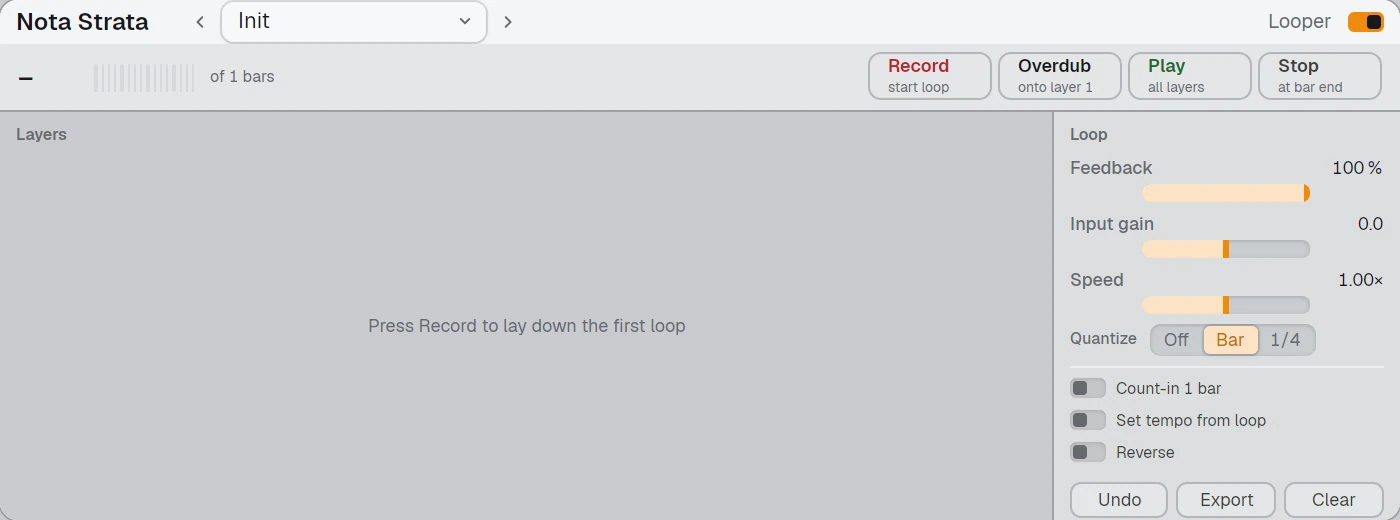
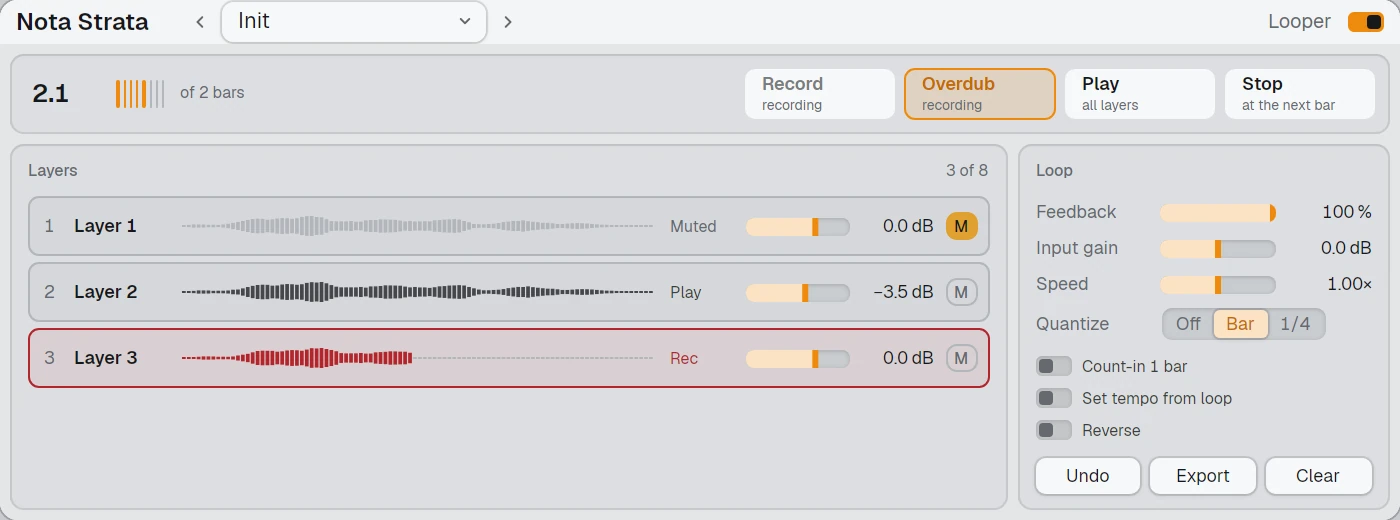
Strata: the page describes the fixed transport, count-in, set tempo, export and layer levels (EN + RU); card shot shows a take

diff --git a/shots/app/Scenes.cs b/shots/app/Scenes.cs
@@ -25,7 +25,8 @@ namespace NotaDocsShots;
 ///             clip (a demo sample on an effect's track), sidechain + sidechainName (a demo sample on
 ///             a second track routed as the effect's key),
 ///             chainInstrument (an Instrument Rack's chain 1 instrument), trackName, window (click this text — a
-///             chain's GUI — and shoot the device window it opens)
+///             chain's GUI — and shoot the device window it opens), strata (a scripted take on a Strata
+///             looper; strataMute mutes its layer 1)
 ///   main      view (arrangement | session | modular), select (track name), clip (track name,
 ///             + clipIndex, audio: true for an audio clip) to open in the clip editor, with ("Track:clipIndex,…" —
 ///             more MIDI clips selected with it, so they open together), automation, tab (browser tab index),
@@ -186,6 +187,23 @@ public sealed class Scenes
         var buf = new float[1024 * 2];
         for (int k = 0; k < 40; k++) _engine.RenderOffline(buf, 1024);
         _engine.StopTransport();
+        // `strata`: a take on a looper (Quantize Off while it records) — two bars on the first
+        // pass, a full overdub, then halfway through a third pass, so one layer is still recording.
+        // `strataMute` mutes layer 1; layer 2 sits at −3.5 dB.
+        if (shot.Str("strata") is not null)
+        {
+            void Blocks(int n) { for (int k = 0; k < n; k++) _engine.RenderOffline(buf, 1024); }
+            _engine.DeviceSetParam(track, deviceIndex, 3, 0f);
+            _engine.Seek(0); _engine.Play();
+            _engine.DeviceAction(track, deviceIndex, 0, 0, 0); Blocks(173);   // Record: the first pass
+            _engine.DeviceAction(track, deviceIndex, 2, 0, 0); Blocks(2);     // Play: close the loop
+            _engine.Seek(0); _engine.DeviceAction(track, deviceIndex, 1, 0, 0); Blocks(174);   // Overdub: layer 2
+            _engine.Seek(0); _engine.DeviceAction(track, deviceIndex, 1, 0, 0); Blocks(80);    // Overdub: layer 3, half way
+            if (shot.Str("strataMute") is not null) _engine.DeviceAction(track, deviceIndex, 6, 0, 1f);
+            _engine.DeviceAction(track, deviceIndex, 7, 1, -3.5f);
+            _engine.DeviceSetParam(track, deviceIndex, 3, 1f);
+            Blocks(4);
+        }
 
         var view = new DeviceChainView(_engine, _presets, null, Kits);
         // An instrument preset names itself in the card's picker, as when the app applies it.
